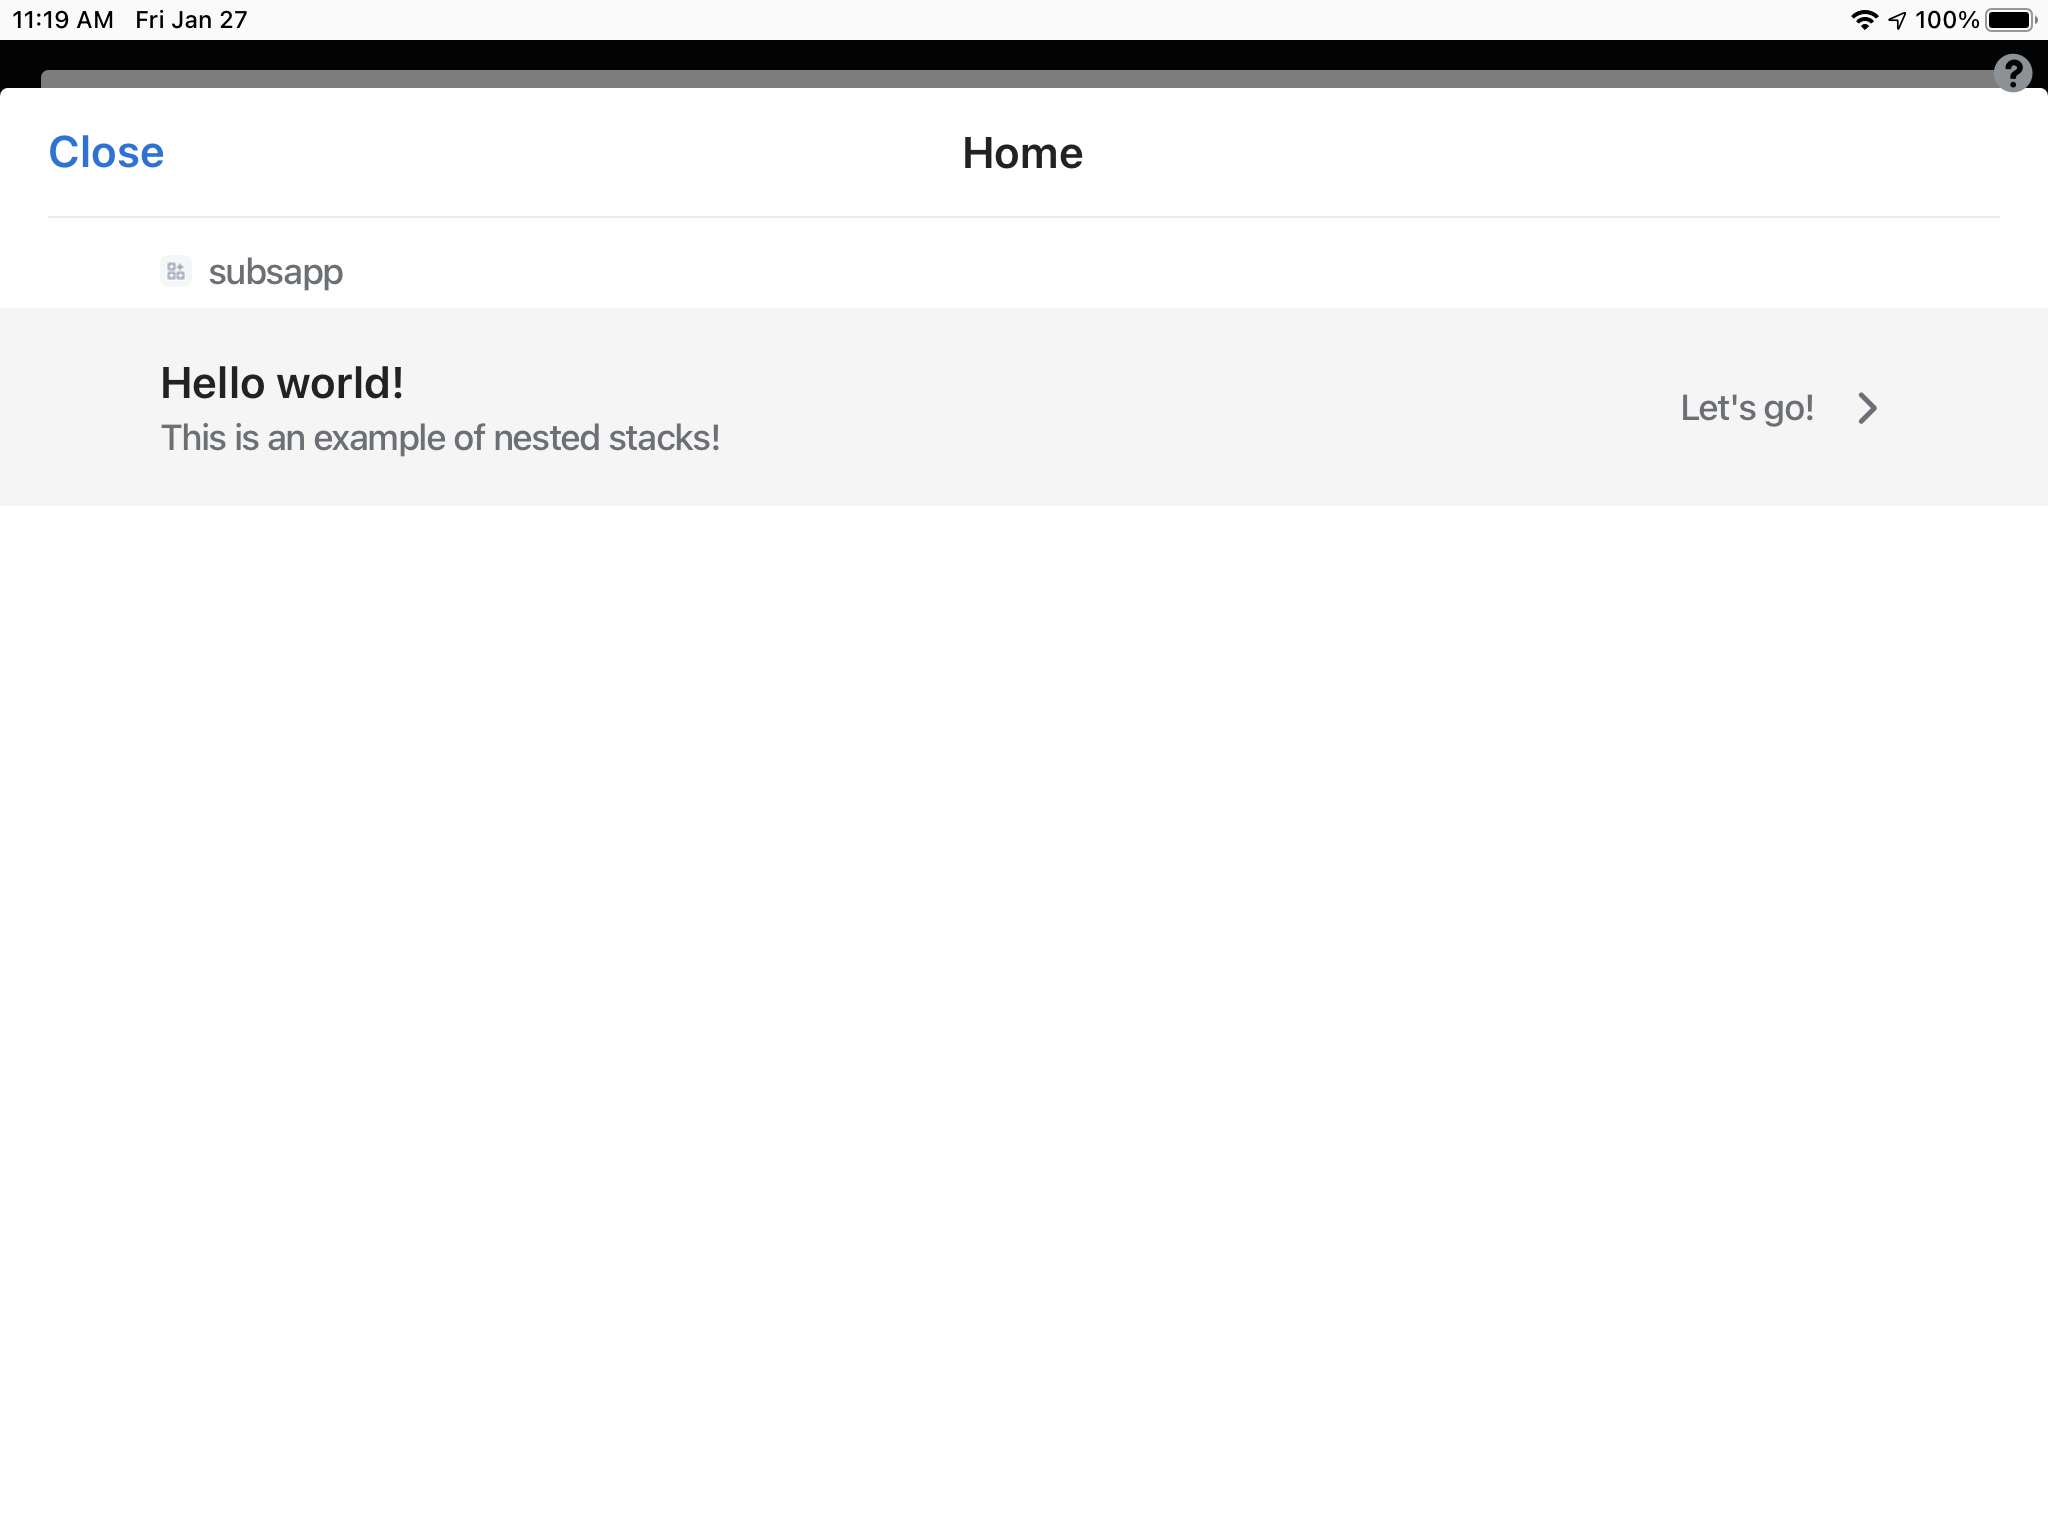
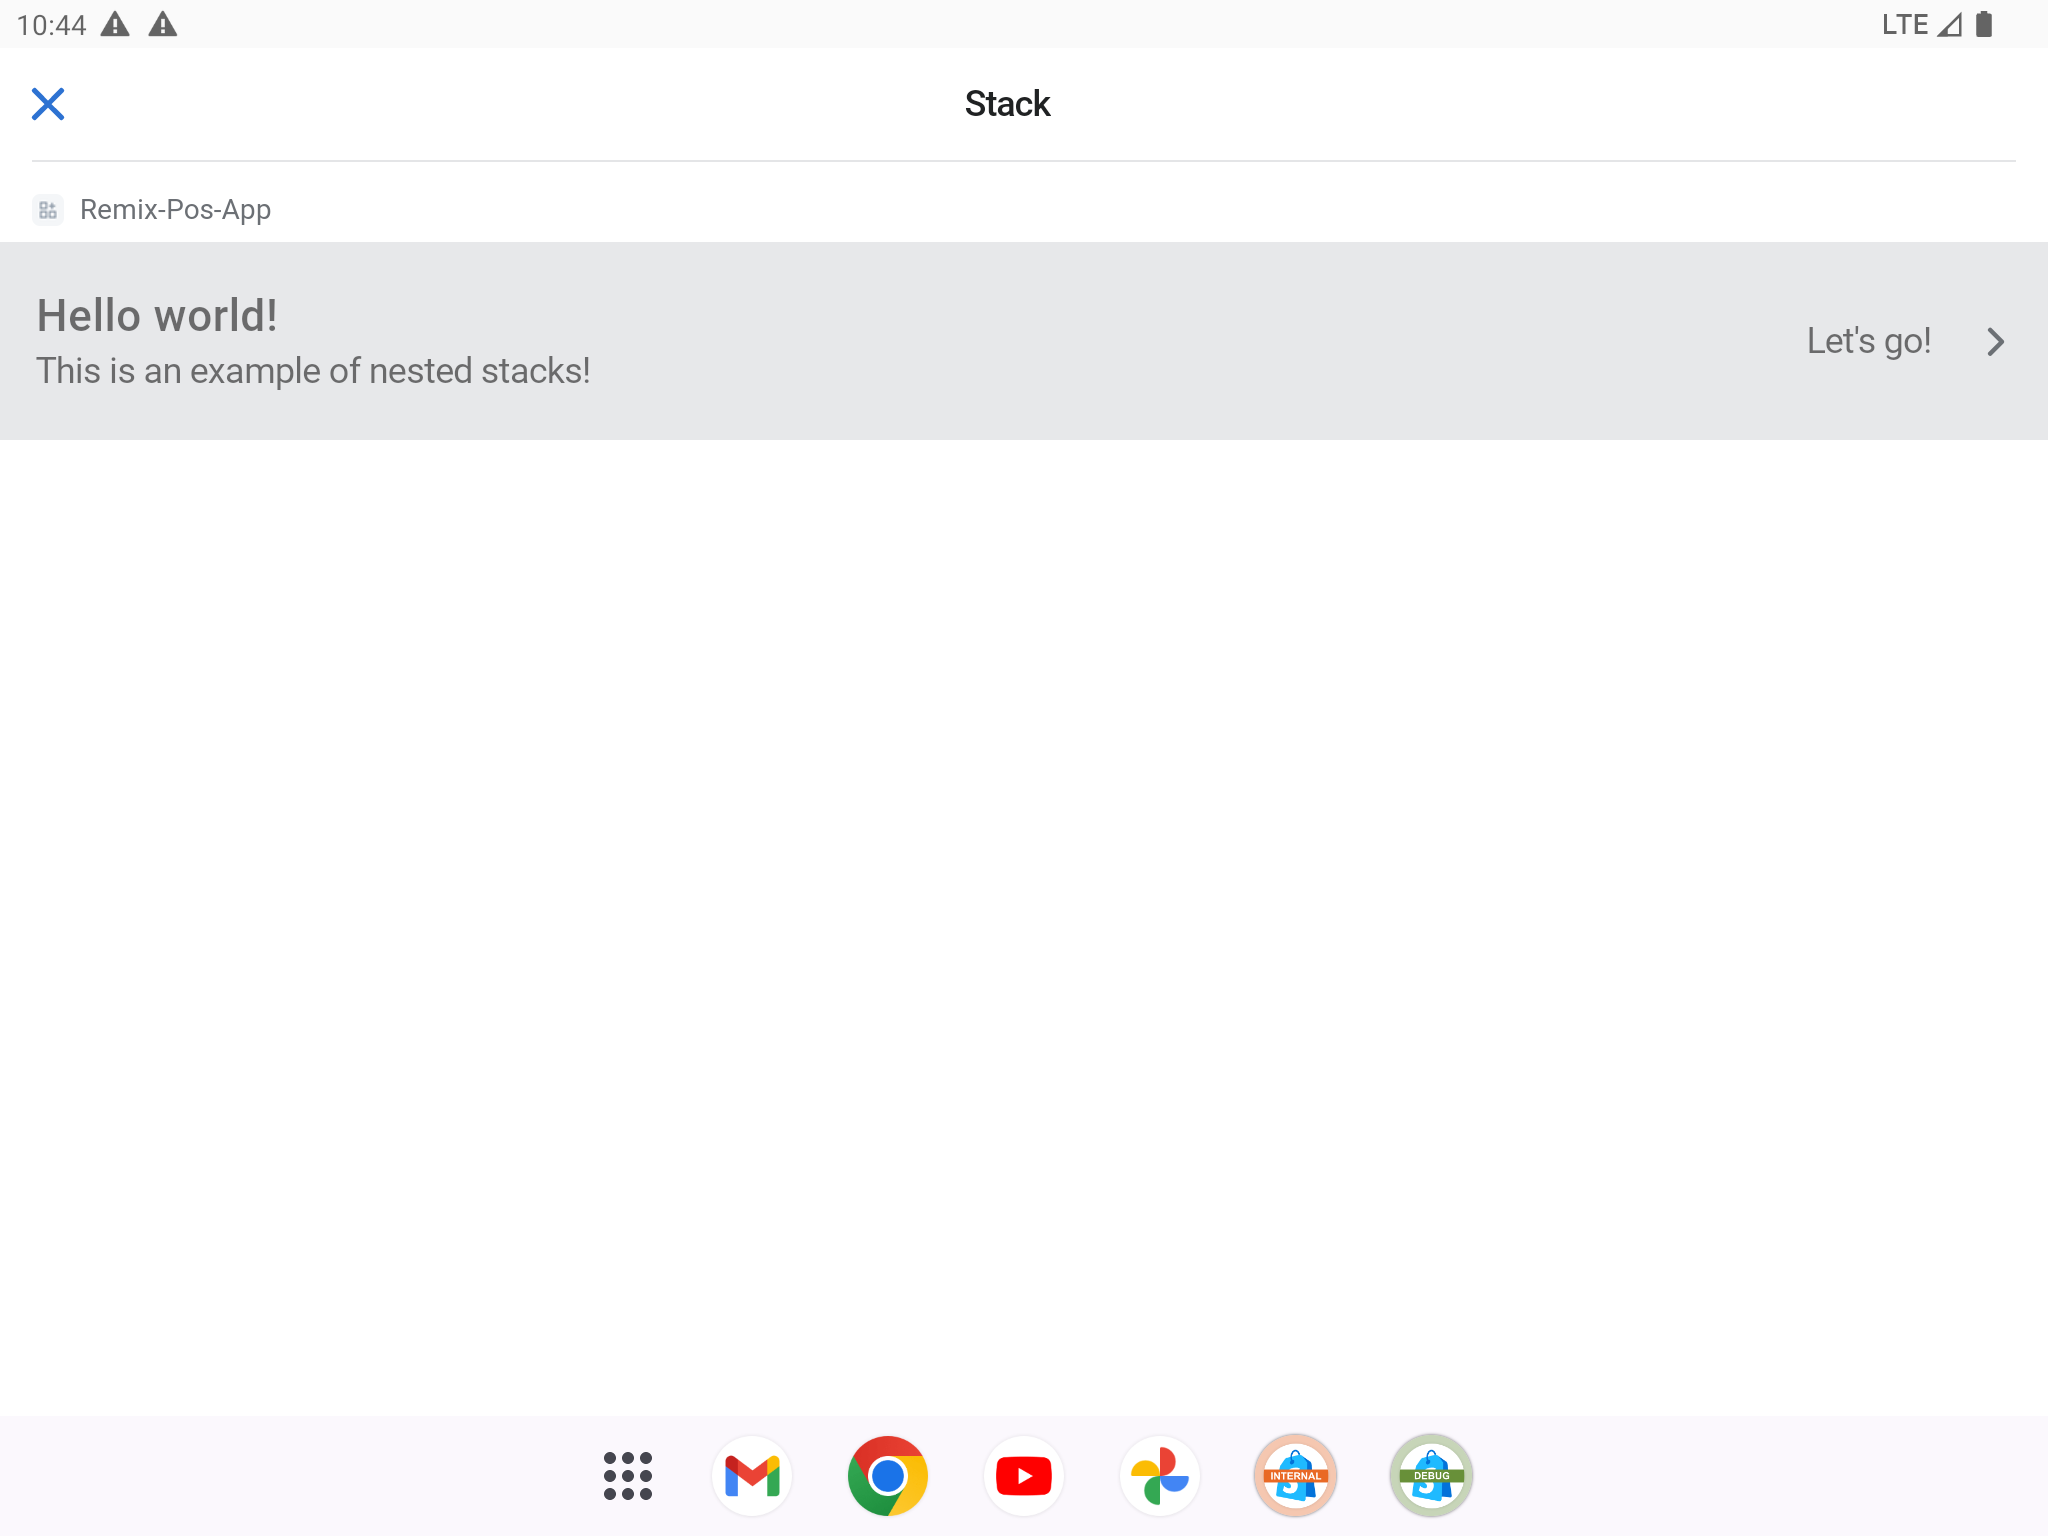
Renamed stack types, edited code and changed images

diff --git a/packages/ui-extensions/docs/surfaces/point-of-sale/reference/components/Stack.doc.ts b/packages/ui-extensions/docs/surfaces/point-of-sale/reference/components/Stack.doc.ts
@@ -37,91 +37,92 @@ The following examples will demonstrate some, but not all of the abilities of th
     },
     {
       type: 'Generic',
-      anchorLink: 'horizontal-default',
-      title: 'Horizontal Stack with default values',
+      anchorLink: 'inline-default',
+      title: 'Inline Stack with default values',
       sectionContent: `
-In this example, we specify \`horizontal\` for the \`direction\`. We don't specify the \`flex\`, which means it's 0 by default. However, \`horizontal\` stacks will always stretch to fill from the left to the right of the screen. As you can see, we have two small buttons occupying just the amount of space that they need, at the left side of the \`Stack\`. This is because \`alignment\` is set to \`flex-end\` by default.
+In this example, we specify \`inline\` for the \`direction\`. We don't specify the \`flex\`, which means it's 0 by default. However, \`horizontal\` stacks will always stretch to fill from the left to the right of the screen. As you can see, we have two small buttons occupying just the amount of space that they need, at the left side of the \`Stack\`. This is because \`alignment\` is set to \`flex-end\` by default.
 `,
       codeblock: generateCodeBlockForStack(
-        'Horizontal Stack with default values',
-        'horizontal-default',
+        'Inline Stack with default values',
+        'inline-default',
       ),
-      image: 'extension-stack-horizontal.png',
+      image: 'extension-stack-inline.png',
     },
     {
       type: 'Generic',
-      anchorLink: 'horizontal-flex-children',
-      title: 'Horizontal Stack with flexChildren',
+      anchorLink: 'inline-flex-children',
+      title: 'Inline Stack with flexChildren',
       sectionContent: `
-Similar to the example above, but this time we are specifying \`flexChildren\` to be \`true\`. This means that the two buttons will take up the max amount of space that they can within the \`horizontal\` stack.
+Similar to the example above, but this time we are specifying \`flexChildren\` to be \`true\`. This means that the two buttons will take up the max amount of space that they can within the \`inline\` stack.
       `,
       codeblock: generateCodeBlockForStack(
-        'Horizontal Stack with flexChildren',
-        'horizontal-flex-children',
+        'Inline Stack with flexChildren',
+        'inline-flex-children',
       ),
-      image: 'extension-stack-horizontal-flexChildren.png',
+      image: 'extension-stack-inline-flexChildren.png',
     },
     {
       type: 'Generic',
-      anchorLink: 'horizontal-center-children',
-      title: 'Horizontal Stack with centered children',
+      anchorLink: 'inline-center-children',
+      title: 'Inline Stack with centered children',
       sectionContent: `
-You can also center elements in your \`horizontal\` stack. For this, you can specify the \`alignment\` to be \`center\`. However, in this case you also want \`flexChildren\` to be \`false\` (which is the default), so that the children can take up the minimal amount of space that they need, and be centered.
+You can also center elements in your \`inline\` stack. For this, you can specify the \`alignment\` to be \`center\`. However, in this case you also want \`flexChildren\` to be \`false\` (which is the default), so that the children can take up the minimal amount of space that they need, and be centered.
 `,
       codeblock: generateCodeBlockForStack(
-        'Horizontal Stack with centered children',
-        'horizontal-center-children',
+        'Inline Stack with centered children',
+        'inline-center-children',
       ),
-      image: 'extension-stack-horizontal-centered.png',
+      image: 'extension-stack-inline-centered.png',
     },
     {
       type: 'Generic',
-      anchorLink: 'horizontal-end-children',
-      title: 'Horizontal Stack with children at the end',
+      anchorLink: 'inline-align-items-center',
+      title:
+        'Inline Stack with nested block stack and single child that are center aligned on the main axis',
       sectionContent: `
-To make the children be aligned to the end of your \`horizontal\` container, you just need to specify \`alignment\` to be \`flex-end\`. Note that in the first example, the children were at the start of the container. This is because the default value is \`flex-start\`.
+To make the children be aligned to the end of your \`inline\` container, you just need to specify \`alignment\` to be \`flex-end\`. Note that in the first example, the children were at the start of the container. This is because the default value is \`flex-start\`.
 `,
       codeblock: generateCodeBlockForStack(
-        'Horizontal Stack with children at the end',
-        'horizontal-end-children',
+        'Inline Stack with children at the end',
+        'inline-align-items-center',
       ),
-      image: 'extension-stack-horizontal-flex-end.png',
+      image: 'inline-align-items-center.png',
     },
     {
       type: 'Generic',
-      anchorLink: 'vertical',
-      title: 'Vertical Stack',
+      anchorLink: 'block',
+      title: 'Block Stack',
       sectionContent: `
-You can specify your \`Stack\` to layout its children vertically by setting \`direction\` to \`vertical\`.
+You can specify your \`Stack\` to layout its children vertically by setting the \`direction\` prop to \`block\`.
   `,
-      codeblock: generateCodeBlockForStack('Vertical Stack', 'vertical'),
+      codeblock: generateCodeBlockForStack('Block Stack', 'block'),
       image: 'extension-stack-vertical.png',
     },
     {
       type: 'Generic',
-      anchorLink: 'vertical-center-children',
-      title: 'Vertical Stack with centered children',
+      anchorLink: 'block-space-between',
+      title: 'Block Stack with space between children',
       sectionContent: `
 You can center your stack's children along the \`vertical\` axis by setting the \`alignment\` to \`center\`. However, because \`vertical\` stacks only take up the minimal amount of \`vertical\` space required when \`flex\` is set to \`0\` (which is by default), you will need to set \`flex\` to \`1\`
 `,
       codeblock: generateCodeBlockForStack(
-        'Vertical Stack with centered children',
-        'vertical-center-children',
+        'Block Stack with space between children',
+        'block-space-between',
       ),
-      image: 'extension-stack-vertical-center.png',
+      image: 'block-space-between.png',
     },
     {
       type: 'Generic',
-      anchorLink: 'vertical-bottom-children',
-      title: 'Vertical Stack with children at the bottom',
+      anchorLink: 'block-center-all',
+      title: 'Block Stack centered on both axes',
       sectionContent: `
-You can set your children to the bottom of your \`vertical\` stack by setting \`alignment\` to \`flex-end\`. As explained in the previous example, you also need to set \`flex\` to \`1\`, since the default is \`0\`, which will make your container only take up the minimum amount of space it needs.
+You can set your children to the bottom of your \`block\` stack by setting \`alignment\` to \`flex-end\`. As explained in the previous example, you also need to set \`flex\` to \`1\`, since the default is \`0\`, which will make your container only take up the minimum amount of space it needs.
 `,
       codeblock: generateCodeBlockForStack(
-        'Vertical Stack with children at the bottom',
-        'vertical-bottom-children',
+        'Block Stack centered on both axes',
+        'block-center-all',
       ),
-      image: 'extension-stack-vertical-flex-end.png',
+      image: 'block-center-all.png',
     },
     {
       type: 'Generic',
@@ -149,7 +150,7 @@ Finally, we can return to the \`Selectable\`. You'll notice that we've wrapped t
   thumbnail: 'stack-thumbnail.png',
   defaultExample: {
     image: 'stack-default.png',
-    codeblock: generateCodeBlockForStack('Stack', 'horizontal-default'),
+    codeblock: generateCodeBlockForStack('Stack', 'inline-default'),
   },
 };
 

diff --git a/packages/ui-extensions/docs/surfaces/point-of-sale/reference/examples/stack/nested.tsx b/packages/ui-extensions/docs/surfaces/point-of-sale/reference/examples/stack/nested.tsx
@@ -1,26 +1,28 @@
-<Screen name="Home">
-  <Selectable onPress={() => console.log('You tapped this row!')}>
-    // Parent stack
+<Screen name="Stack" title="Stack">
+  <Selectable onPress={() => {}}>
     <Stack
-      direction="horizontal"
-      alignment="space-between"
-      paddingVertical={'Medium'}
-      paddingHorizontal={'ExtraExtraLarge'}
+      direction="inline"
+      justifyContent="space-between"
+      inlineSize="100%"
+      alignContent="center"
+      alignItems="center"
+      paddingInline="450"
+      paddingBlock="600"
     >
-      // First child stack
-      <Stack direction="vertical" spacing={0.5}>
+      <Stack direction="block" gap="100">
         <Text>Hello world!</Text>
         <Text variant="captionRegular">
           This is an example of nested stacks!
         </Text>
       </Stack>
-      // Second child stack
-      <Stack direction="vertical" flex={1} alignment="center">
-        // Horizontal stack for the right label and chevron icon
-        <Stack direction="horizontal" spacing={2}>
-          <Text variant="captionRegular">Let's go!</Text>
-          <Icon name="chevron-right" />
-        </Stack>
+      <Stack
+        direction="inline"
+        alignItems="center"
+        alignContent="center"
+        gap="600"
+      >
+        <Text variant="captionRegular">Let's go!</Text>
+        <Icon name="chevron-right" />
       </Stack>
     </Stack>
   </Selectable>

diff --git a/packages/ui-extensions/docs/surfaces/point-of-sale/reference/examples/stack/block-center-all.tsx b/packages/ui-extensions/docs/surfaces/point-of-sale/reference/examples/stack/block-center-all.tsx
@@ -1,0 +1,15 @@
+<Screen name="Stack" title="Stack">
+  <Stack
+    direction="block"
+    justifyContent="center"
+    alignContent="center"
+    alignItems="center"
+    inlineSize="100%"
+    paddingInline="400"
+    blockSize="50%"
+    gap="200"
+  >
+    <Button title="hello" />
+    <Button title="hello" />
+  </Stack>
+</Screen>;

diff --git a/packages/ui-extensions/docs/surfaces/point-of-sale/reference/examples/stack/inline-align-items-center.tsx b/packages/ui-extensions/docs/surfaces/point-of-sale/reference/examples/stack/inline-align-items-center.tsx
@@ -1,0 +1,11 @@
+<Screen name="Stack" title="Stack">
+  <ScrollView>
+    <Stack direction="inline" alignItems="center" gap="200">
+      <Stack direction="block" gap="200">
+        <Button title="hello" />
+        <Button title="hello" />
+      </Stack>
+      <Button title="hello" />
+    </Stack>
+  </ScrollView>
+</Screen>;

diff --git a/packages/ui-extensions/docs/surfaces/point-of-sale/reference/examples/stack/block-space-between.tsx b/packages/ui-extensions/docs/surfaces/point-of-sale/reference/examples/stack/block-space-between.tsx
@@ -1,0 +1,12 @@
+<Screen name="Stack" title="Stack">
+  <Stack
+    direction="block"
+    justifyContent="space-between"
+    paddingInline="400"
+    blockSize="50%"
+    gap="200"
+  >
+    <Button title="hello" />
+    <Button title="hello" />
+  </Stack>
+</Screen>;

diff --git a/packages/ui-extensions/docs/surfaces/point-of-sale/reference/examples/stack/inline-center-children.tsx b/packages/ui-extensions/docs/surfaces/point-of-sale/reference/examples/stack/inline-center-children.tsx
@@ -1,0 +1,8 @@
+<Screen name="Stack" title="Stack">
+  <ScrollView>
+    <Stack direction="inline" gap="200" justifyContent="center">
+      <Button title="Hello" />
+      <Button title="Hello" />
+    </Stack>
+  </ScrollView>
+</Screen>;

diff --git a/packages/ui-extensions/docs/surfaces/point-of-sale/reference/examples/stack/inline-flex-children.tsx b/packages/ui-extensions/docs/surfaces/point-of-sale/reference/examples/stack/inline-flex-children.tsx
@@ -1,0 +1,8 @@
+<Screen name="Stack" title="Stack">
+  <ScrollView>
+    <Stack direction="inline" gap="200" flexChildren>
+      <Button title="Hello" />
+      <Button title="Hello" />
+    </Stack>
+  </ScrollView>
+</Screen>;

diff --git a/packages/ui-extensions/docs/surfaces/point-of-sale/reference/examples/stack/inline-default.tsx b/packages/ui-extensions/docs/surfaces/point-of-sale/reference/examples/stack/inline-default.tsx
@@ -1,0 +1,8 @@
+<Screen name="Home" title="Home">
+  <ScrollView>
+    <Stack direction="inline" gap="200">
+      <Button title="Hello" />
+      <Button title="Hello" />
+    </Stack>
+  </ScrollView>
+</Screen>;

diff --git a/packages/ui-extensions/docs/surfaces/point-of-sale/reference/examples/stack/block.tsx b/packages/ui-extensions/docs/surfaces/point-of-sale/reference/examples/stack/block.tsx
@@ -1,0 +1,6 @@
+<Screen name="Stack" title="Stack">
+  <Stack direction="block" paddingInline="400" blockSize="50%" gap="200">
+    <Button title="hello" />
+    <Button title="hello" />
+  </Stack>
+</Screen>;
